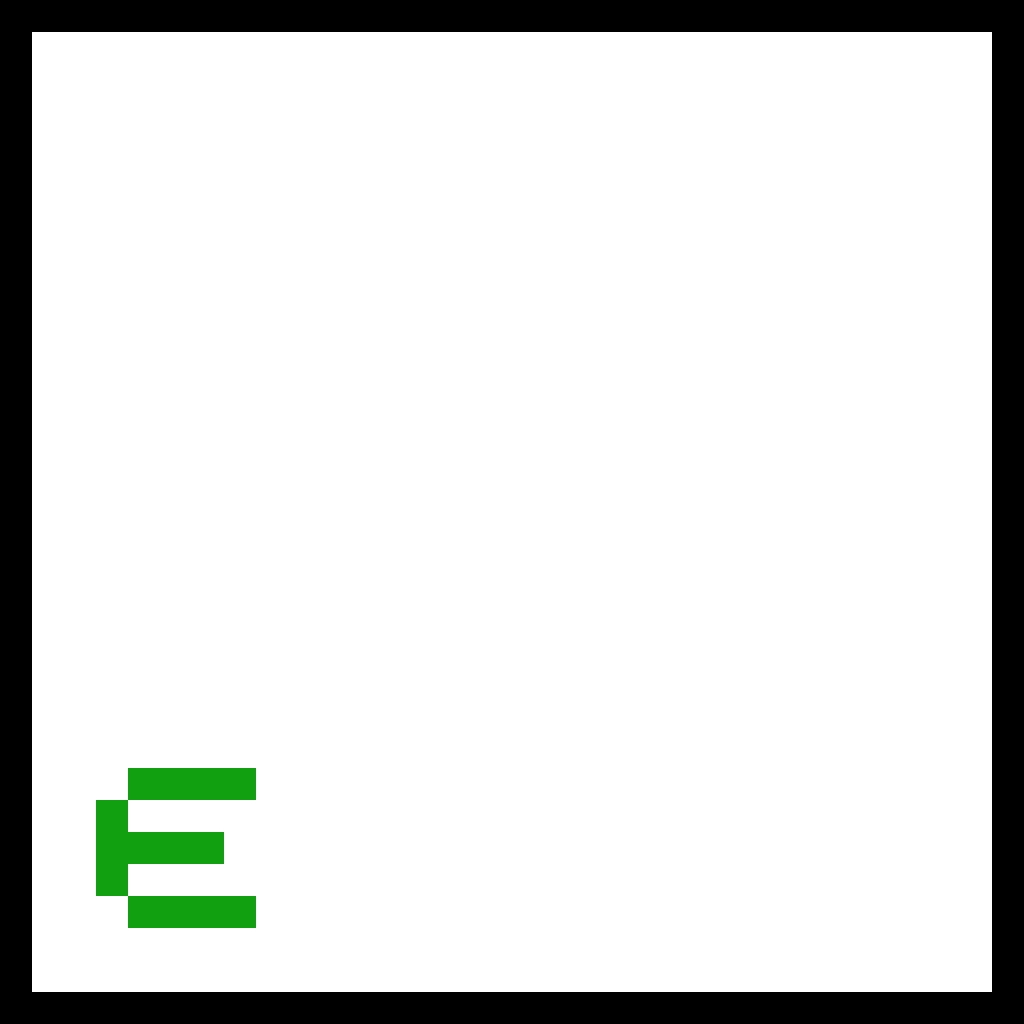
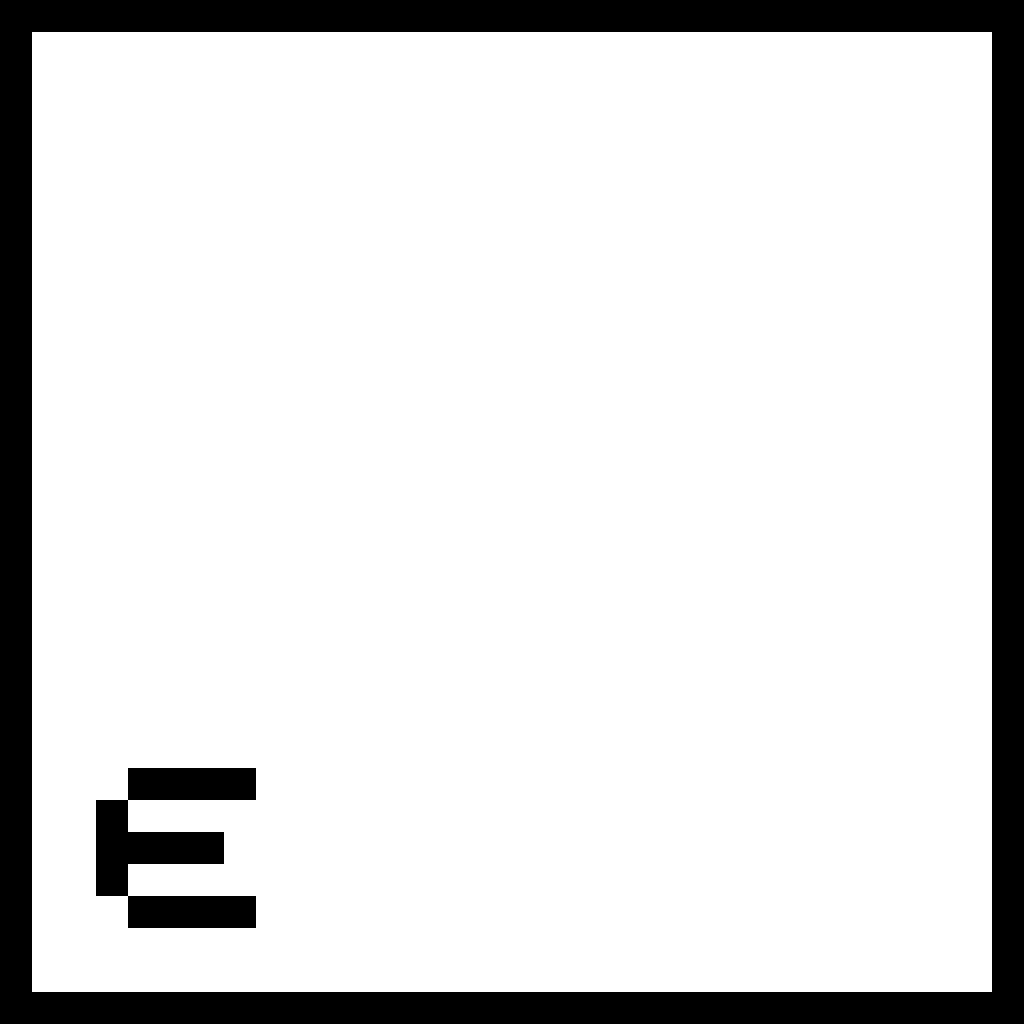
Replace card direction images

Changed region(s): [[0.0938, 0.7812, 0.2188, 0.875], [0.125, 0.875, 0.25, 0.9062], [0.125, 0.75, 0.25, 0.7812]]

diff --git a/src/scenes/Common.js b/src/scenes/Common.js
@@ -66,7 +66,7 @@ export class Player {
         const elements = [Elements.FIRE, Elements.AIR, Elements.WATER, Elements.EARTH];
         const directions = [Directions.NORTH, Directions.EAST, Directions.SOUTH, Directions.WEST];
         
-        for (let value = 8; value <= 8; value++) {
+        for (let value = 2; value <= 8; value++) {
             for (let element of elements) {
                 for (let direction of directions) {
                     let card = this.#createCard(scene,value,element,direction);
@@ -170,7 +170,6 @@ export class Player {
         const totalWidth = 4 * squareSize + 3 * GAP;
         x = x - totalWidth/2;
 
-        // this.scene.rectangles = [];
         this.collectionObjects = []; 
 
         const directions = ["N","E","S","W"];
@@ -192,7 +191,7 @@ export class Player {
                     align: 'center'
                 }).setOrigin(0.5,1);
             }
-            // this.scene.rectangles.push(this.createFourSquare(x + (squareSize + GAP) * i, y, squareSize, this.collection[i]));
+            
             this.collectionObjects.push(text);
 
             const squares = this.createFourSquare(
@@ -208,7 +207,7 @@ export class Player {
     
     destroyCollection() {
         this.collectionObjects.forEach(obj => {
-            if (obj && obj.destroy) obj.destroy(); // Ensure object exists and has a destroy method
+            if (obj && obj.destroy) obj.destroy();
         });
         this.collectionObjects = [];
     }
@@ -266,12 +265,6 @@ export class Player {
                 break;
             }
         }
-        // this.collection = [
-        //     { [Elements.FIRE]: 0, [Elements.AIR]: 0, [Elements.WATER]: 0, [Elements.EARTH]: 0 },
-        //     { [Elements.FIRE]: 0, [Elements.AIR]: 0, [Elements.WATER]: 0, [Elements.EARTH]: 0 },
-        //     { [Elements.FIRE]: 0, [Elements.AIR]: 0, [Elements.WATER]: 0, [Elements.EARTH]: 0 },
-        //     { [Elements.FIRE]: 0, [Elements.AIR]: 0, [Elements.WATER]: 0, [Elements.EARTH]: 0 }
-        // ];
         return avatarWin || masterWin;
     }
 }

diff --git a/src/scenes/Start.js b/src/scenes/Start.js
@@ -4,12 +4,13 @@ est. 10h
 Angela Huang
 
 to-do:
-() [feat] add dice
-
-() [enhance] update card directions to be black
-() [dev] add to github & move to vscode?
-() [feat] add help/info for winning elements
-() [dev/enhance] direction message for win by 4 elements of a direction
+ () [feat] add help/info for winning elements & other useful text
+ () [feat] all element tile
+ () [feat] add dice, movement, spawn
+ () [dev/enhance] direction message for win by 4 elements of a direction
+ () [art] create accessories for frogs + more colours?
+ () [feat] customize character on menu screen
+ () [feat] multiplayer
 
 completed:
 (x) implement fight function to compare cards
@@ -24,6 +25,8 @@ completed:
 (x) [bug] unrender computer collection when not fighting
 (x) [feat] add win condition
 (x) [bug] tie rematch does not work
+(x) [dev] add to github & move to vscode
+(x) [enhance] update card directions to be black
 */
 
 import { Elements, Directions, Player, Fight } from './Common.js';
